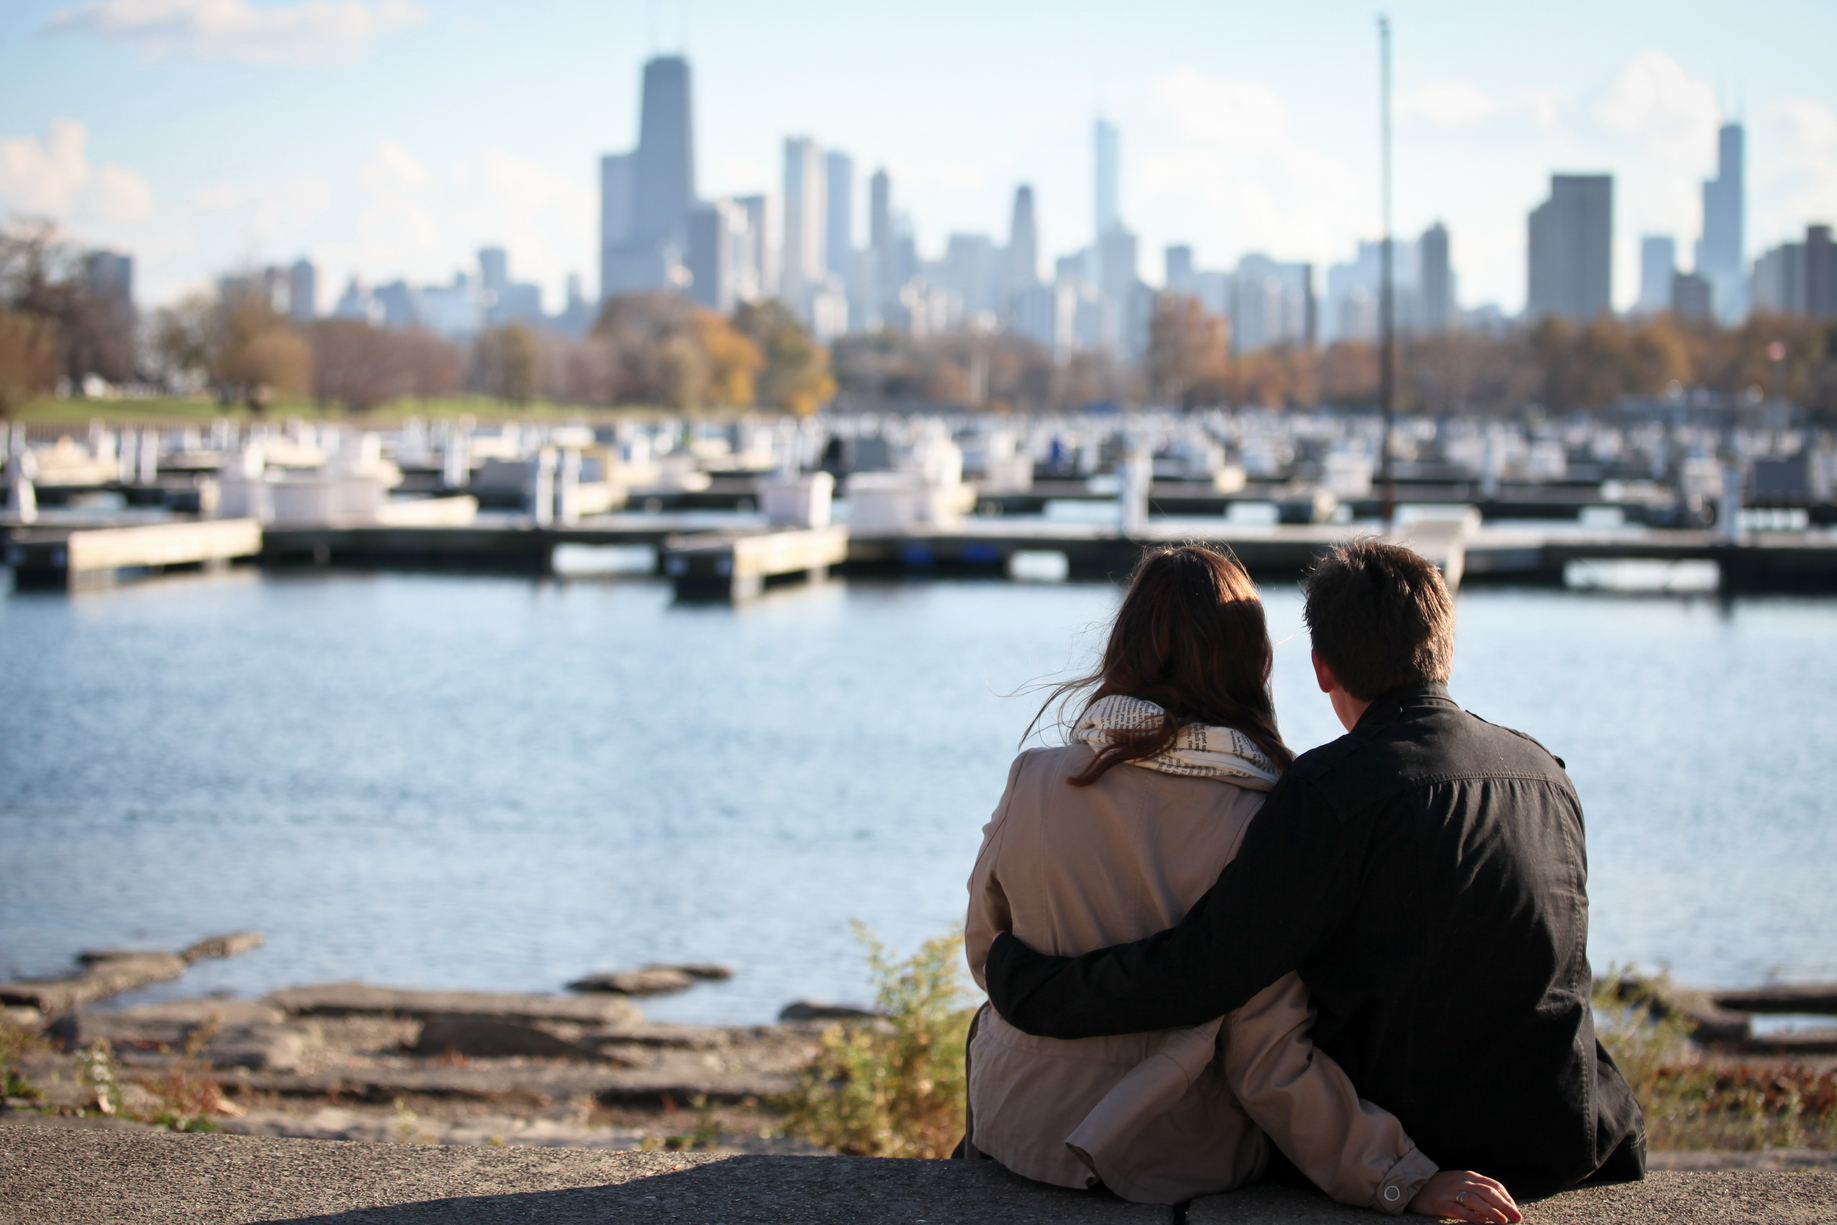
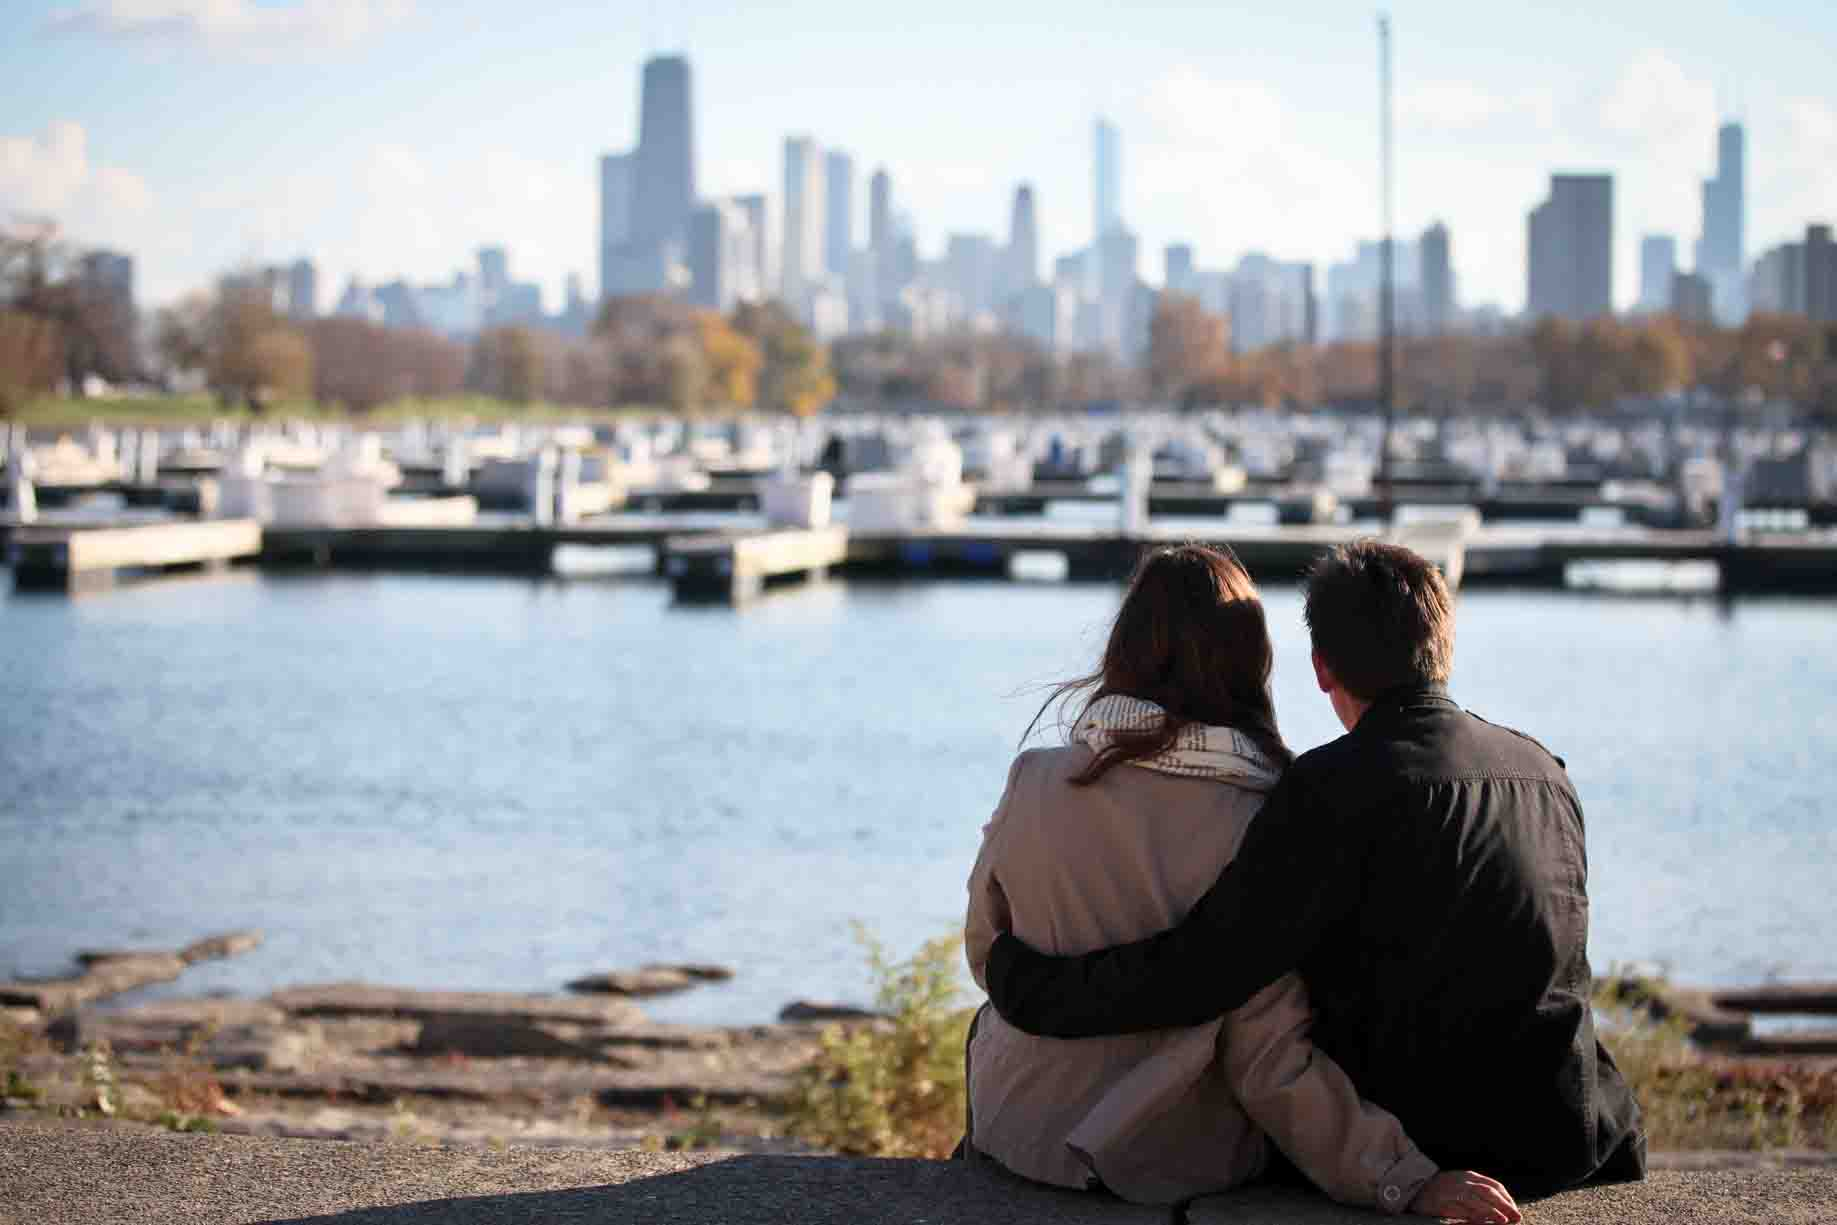
removing unused images, lowering quality of used images for load time

diff --git a/index.html b/index.html
@@ -58,16 +58,16 @@
 				Please enter your code at the bottom of the page to receive your invitation and to RSVP.</h2></p>
 			</div>
 			<div id="carousel">
-				<div><img class="landscape" data-lazy="img/gallery/Carly-Nick_008.jpg"></div>
-				<div><img class="landscape" data-lazy="img/gallery/Carly-Nick_018.jpg"></div>
-				<div><img class="landscape" data-lazy="img/gallery/Carly-Nick_026.jpg"></div>
-				<div><img class="landscape" data-lazy="img/gallery/Carly-Nick_036.jpg"></div>
-				<div><img class="landscape" data-lazy="img/gallery/Carly-Nick_048.jpg"></div>
-				<div><img class="landscape" data-lazy="img/gallery/Carly-Nick_055.jpg"></div>
-				<div><img class="portrait" data-lazy="img/gallery/Carly-Nick_068.jpg"></div>
-				<div><img class="landscape" data-lazy="img/gallery/Carly-Nick_095.jpg"></div>
-				<div><img class="landscape" data-lazy="img/gallery/Carly-Nick_158.jpg"></div>
-				<div><img class="portrait" data-lazy="img/gallery/Carly-Nick_171.jpg"></div>
+				<div><img class="landscape" src="img/gallery/Carly-Nick_055.jpg"></div>
+				<div><img class="landscape" src="img/gallery/Carly-Nick_018.jpg"></div>
+				<div><img class="landscape" src="img/gallery/Carly-Nick_048.jpg"></div>
+				<div><img class="landscape" src="img/gallery/Carly-Nick_008.jpg"></div>
+				<div><img class="landscape" src="img/gallery/Carly-Nick_026.jpg"></div>
+				<div><img class="landscape" src="img/gallery/Carly-Nick_036.jpg"></div>
+				<div><img class="landscape" src="img/gallery/Carly-Nick_095.jpg"></div>
+				<div><img class="portrait" src="img/gallery/Carly-Nick_068.jpg"></div>
+				<div><img class="portrait" src="img/gallery/Carly-Nick_171.jpg"></div>
+				<div><img class="landscape" src="img/gallery/Carly-Nick_158.jpg"></div>
 			</div>
 		</div>
 		<div id="venue">

diff --git a/css/style.css b/css/style.css
@@ -1,6 +1,7 @@
 body {
 	font-family: Georgia, serif;
 	/*font-family: "Trebuchet MS", Helvetica, sans-serif;*/
+	background-color: #000033;
 	background-image: url('../img/backgrounds/NavyStars.png');
 	background-attachment: fixed;
 	color: #000033;

diff --git a/js/script.js b/js/script.js
@@ -39,7 +39,6 @@ $(document).ready(function() {
 		speed: 1000,
 		slidesToShow: 1,
 		// adaptiveHeight: true,
-		
 		fade: true,
 		cssEase: 'linear',
 		autoplay: true,
